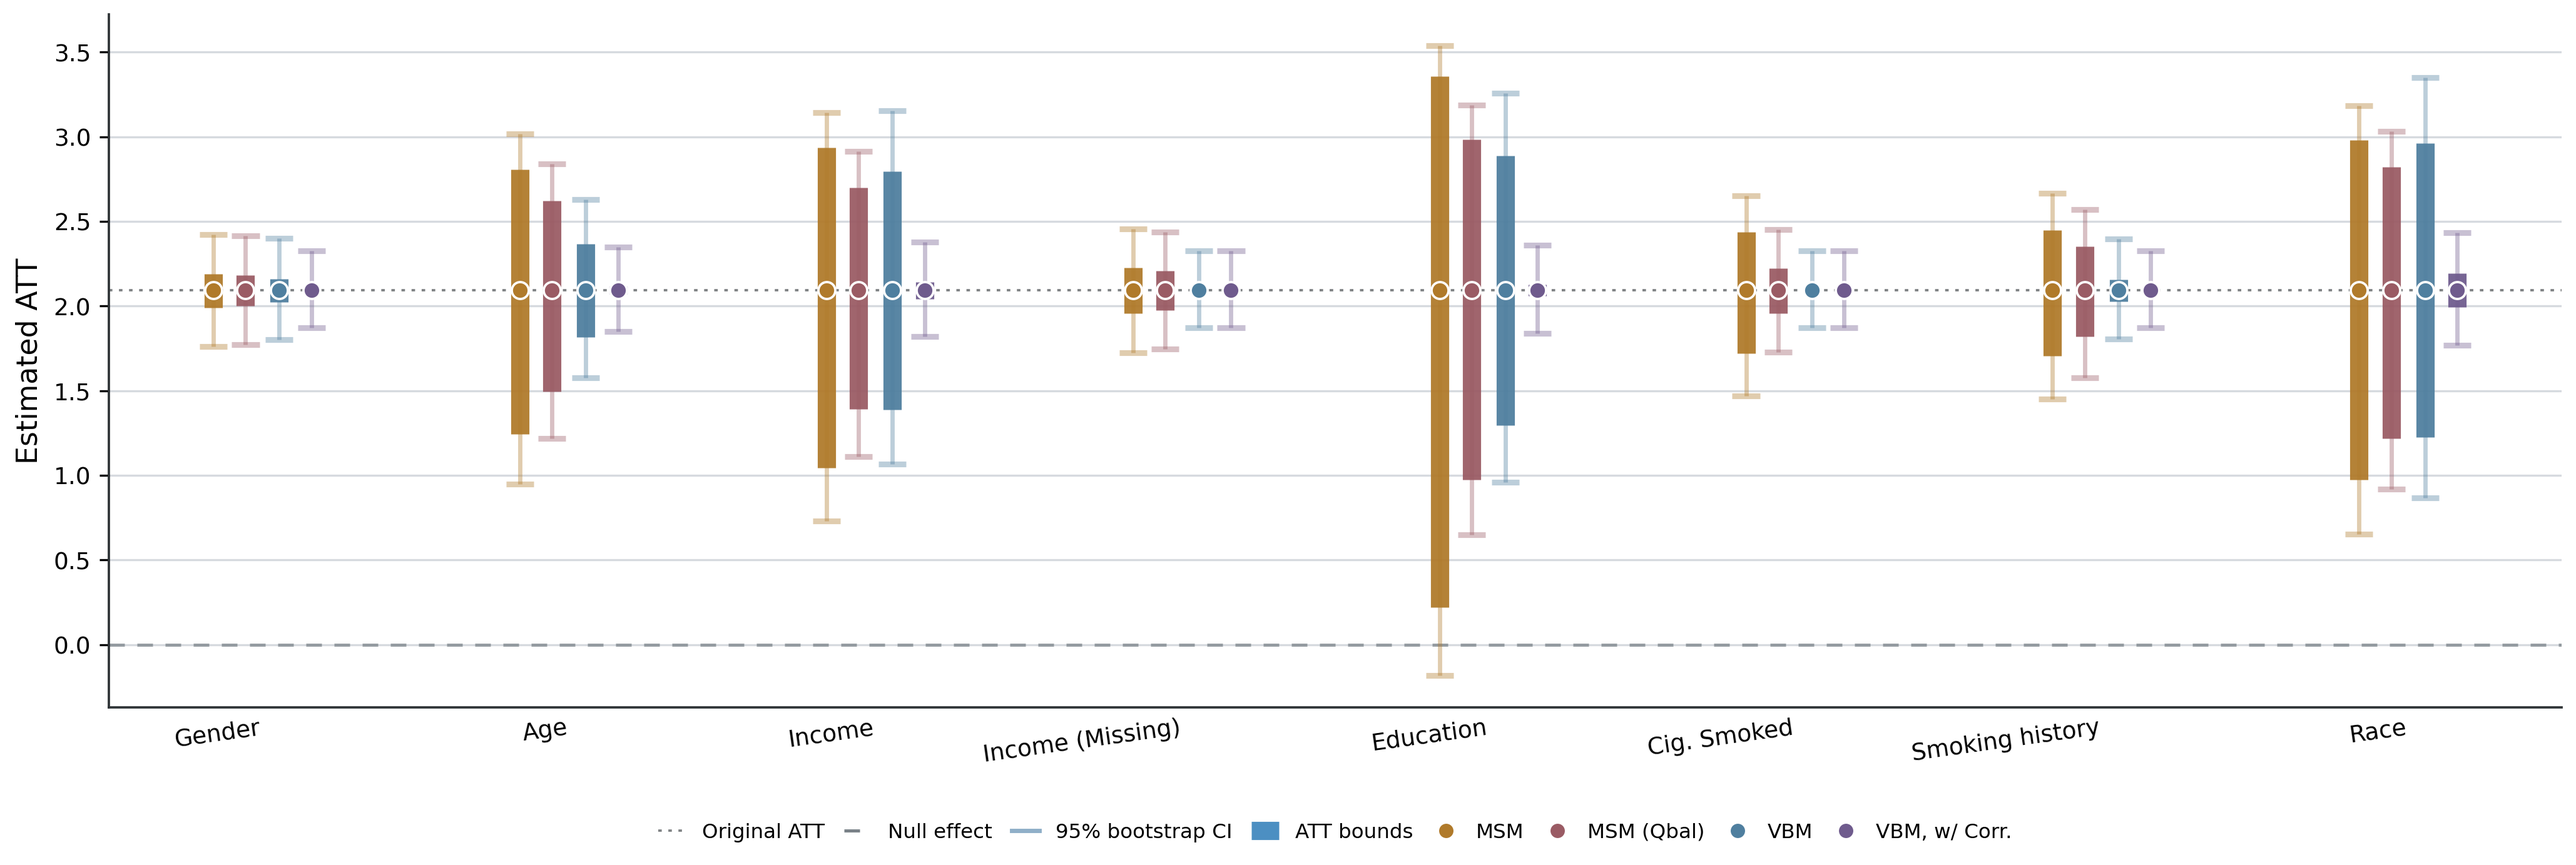
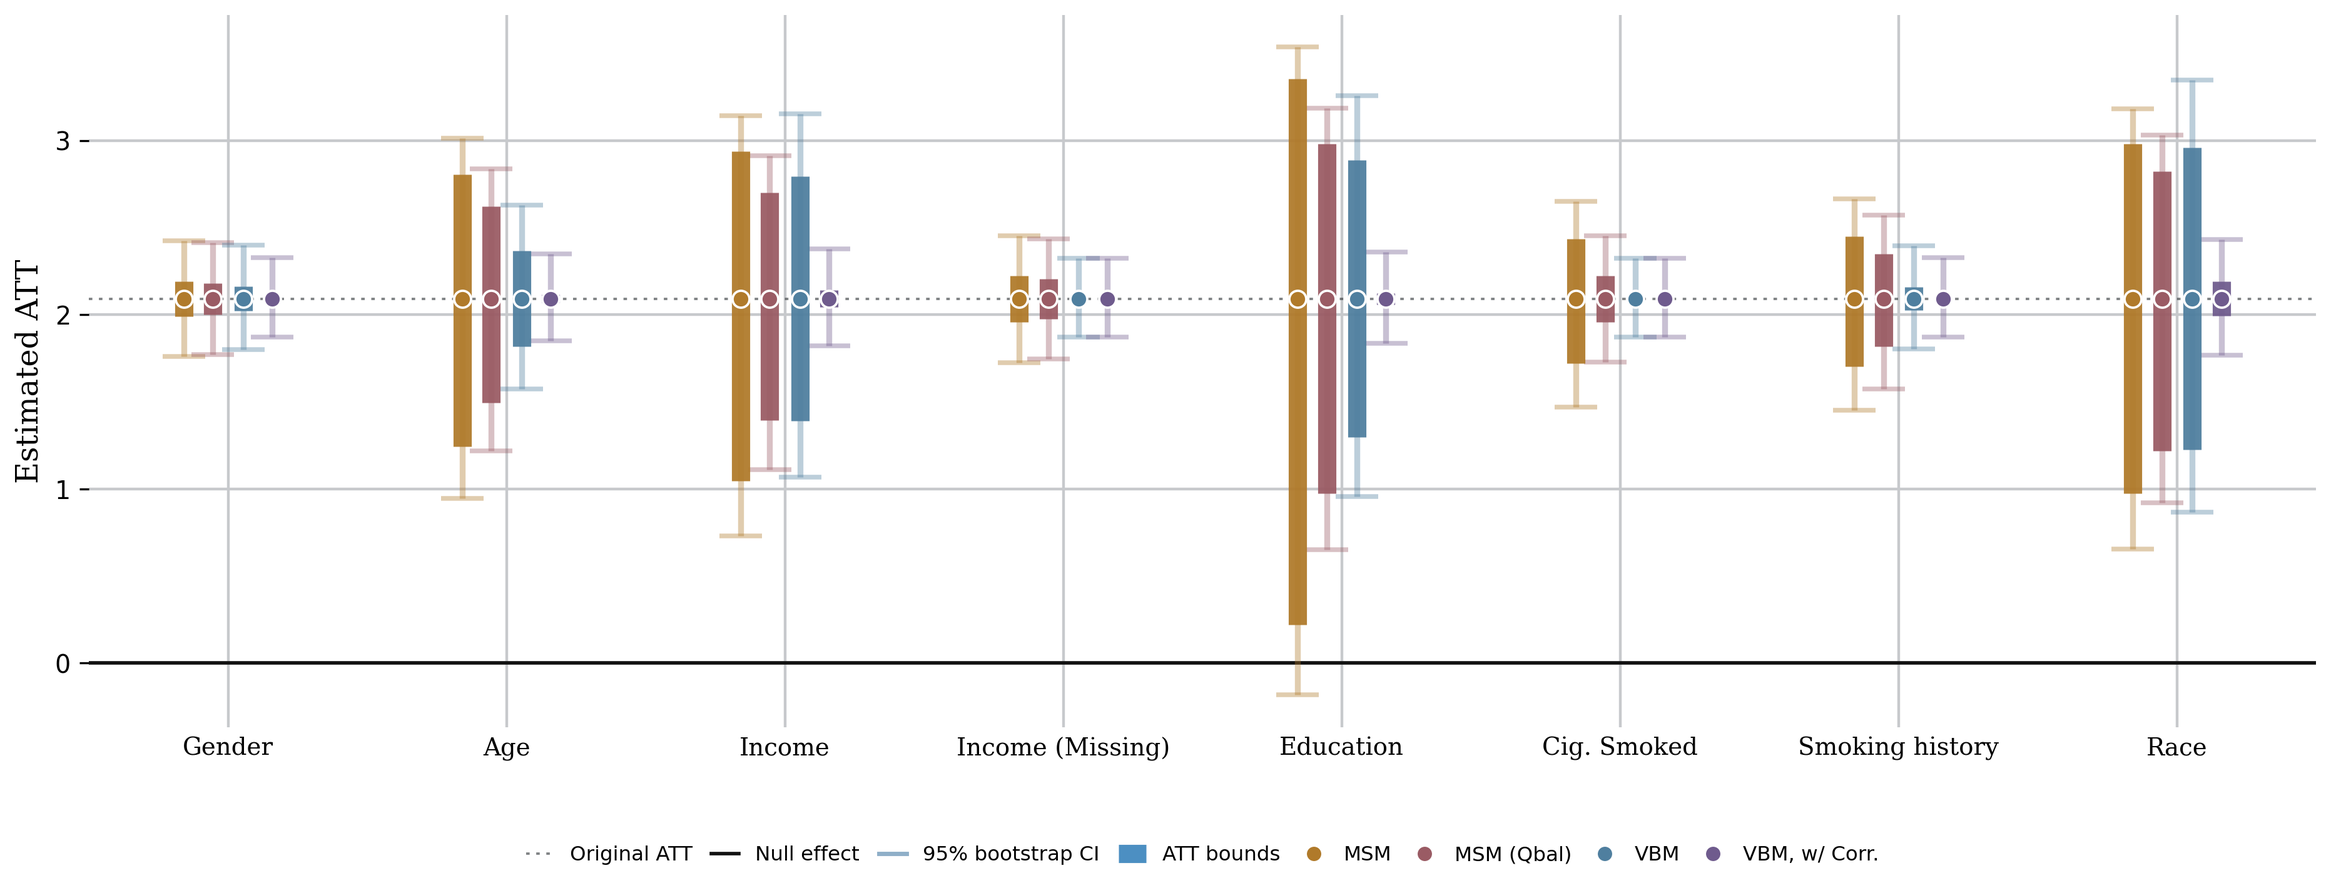
modify plot fig3

diff --git a/scripts/enhanced_plots.py b/scripts/enhanced_plots.py
@@ -551,8 +551,9 @@ def make_figure3(input_dir: Path, output_dir: Path) -> None:
 
     df["method_label"] = df["method"].map(normalize_method)
 
+    group_spacing = 0.68
     df["x_base"] = df["variable"].apply(
-        lambda v: order.index(v) if v in order else len(order)
+        lambda v: (order.index(v) if v in order else len(order)) * group_spacing
     )
 
     method_order = ["MSM", "MSM (Qbal)", "VBM", "VBM, w/ Corr."]
@@ -560,10 +561,10 @@ def make_figure3(input_dir: Path, output_dir: Path) -> None:
 
     # Keep the four method intervals readable within each covariate group.
     offsets = {
-        "MSM": -0.16,
-        "MSM (Qbal)": -0.055,
-        "VBM": 0.055,
-        "VBM, w/ Corr.": 0.16,
+        "MSM": -0.108,
+        "MSM (Qbal)": -0.037,
+        "VBM": 0.037,
+        "VBM, w/ Corr.": 0.108,
     }
 
     # Muted, paper-like palette with enough contrast across methods.
@@ -574,7 +575,7 @@ def make_figure3(input_dir: Path, output_dir: Path) -> None:
         "VBM, w/ Corr.": "#6F5B8D",
     }
 
-    fig, ax = plt.subplots(figsize=(14.2, 5.2))
+    fig, ax = plt.subplots(figsize=(12.9, 5.35))
 
     tau = pd.to_numeric(df["tau_hat"], errors="coerce").dropna()
 
@@ -591,12 +592,12 @@ def make_figure3(input_dir: Path, output_dir: Path) -> None:
 
     ax.axhline(
         0,
-        linewidth=1.2,
-        linestyle=(0, (5.0, 4.0)),
-        color="#7A8288",
-        alpha=0.72,
+        linewidth=1.35,
+        linestyle="-",
+        color="#111111",
+        alpha=1.0,
         label="Null effect",
-        zorder=1,
+        zorder=2,
     )
 
     for method in methods:
@@ -616,13 +617,13 @@ def make_figure3(input_dir: Path, output_dir: Path) -> None:
 
         color = method_colors.get(method, "#4C78A8")
 
-        cap_width = 0.045
+        cap_width = 0.052
         for xi, blo, bhi, dlo, dhi in zip(x, boot_lower, boot_upper, det_lower, det_upper):
             ax.plot(
                 [xi, xi],
                 [blo, bhi],
                 color=color,
-                linewidth=1.65,
+                linewidth=2.25,
                 alpha=0.38,
                 solid_capstyle="butt",
                 zorder=2,
@@ -631,7 +632,7 @@ def make_figure3(input_dir: Path, output_dir: Path) -> None:
                 [xi - cap_width, xi + cap_width],
                 [blo, blo],
                 color=color,
-                linewidth=2.2,
+                linewidth=1.8,
                 alpha=0.38,
                 solid_capstyle="butt",
                 zorder=2,
@@ -640,7 +641,7 @@ def make_figure3(input_dir: Path, output_dir: Path) -> None:
                 [xi - cap_width, xi + cap_width],
                 [bhi, bhi],
                 color=color,
-                linewidth=2.2,
+                linewidth=1.8,
                 alpha=0.38,
                 solid_capstyle="butt",
                 zorder=2,
@@ -666,39 +667,40 @@ def make_figure3(input_dir: Path, output_dir: Path) -> None:
             zorder=4,
         )
 
-    # Light horizontal gridlines improve scale reading without fighting the intervals.
-    ax.grid(True, axis="y", color="#D6DADF", linewidth=0.8)
+    # Paper-style gridlines: visible enough to structure the panel, but still secondary.
+    ax.grid(True, axis="y", color="#C7C9CC", linewidth=1.05)
+    ax.grid(True, axis="x", color="#C7C9CC", linewidth=1.05)
     ax.set_axisbelow(True)
 
     # Reduce side padding so the covariate groups occupy the plot area more evenly.
-    ax.set_xlim(-0.5, len(order) - 0.5)
+    ax.set_xlim(-0.5 * group_spacing, (len(order) - 0.5) * group_spacing)
 
-    ax.set_xticks(range(len(order)))
+    ax.set_xticks([i * group_spacing for i in range(len(order))])
 
     ax.set_xticklabels(
         [label_map[v] for v in order],
-        rotation=8,
-        ha="right",
-        fontsize=9,
+        rotation=0,
+        ha="center",
+        fontsize=9.3,
+        fontfamily="serif",
     )
 
-    ax.tick_params(axis="y", labelsize=9)
+    ax.set_yticks([0, 1, 2, 3])
+    ax.tick_params(axis="y", labelsize=9.5)
     ax.tick_params(axis="x", length=0)
 
-    ax.set_ylabel("Estimated ATT", fontsize=11)
+    ax.set_ylabel("Estimated ATT", fontsize=11.5, fontfamily="serif")
     ax.set_xlabel("")
 
     for spine in ["top", "right"]:
         ax.spines[spine].set_visible(False)
 
-    ax.spines["left"].set_color("#2F3437")
-    ax.spines["bottom"].set_color("#2F3437")
-    ax.spines["left"].set_linewidth(0.9)
-    ax.spines["bottom"].set_linewidth(0.9)
+    ax.spines["left"].set_visible(False)
+    ax.spines["bottom"].set_visible(False)
 
     handles = [
         Line2D([0], [0], color="#2F3437", linewidth=0.9, alpha=0.62, linestyle=(0, (1.5, 2.8)), label="Original ATT"),
-        Line2D([0], [0], color="#7A8288", linewidth=1.2, linestyle=(0, (5.0, 4.0)), label="Null effect"),
+        Line2D([0], [0], color="#111111", linewidth=1.35, linestyle="-", label="Null effect"),
         Line2D([0], [0], color="#8FAFC8", linewidth=1.65, marker="_", markersize=10, label="95% bootstrap CI"),
         Line2D([0], [0], color="#4C8FC2", linewidth=7.0, solid_capstyle="butt", label="ATT bounds"),
     ]
